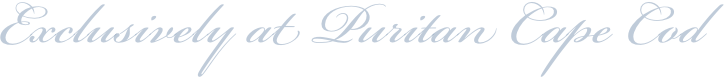
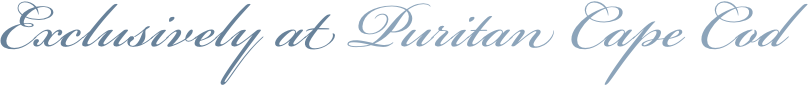
Header changes
MAKE THE LOGO BIGGER, the background darker, the tagline brighter and
link it to Puritan's website

diff --git a/Build/stores.html b/Build/stores.html
@@ -43,8 +43,10 @@
 	<div class="row">
 		<div class="large-12 columns">
 			<a href="index.html" class="logo-area">
-				<img src="assets/images/logo.png" class="logo"/><br/>
-				<img class="tagline" src="assets/images/at-puritan.png" alt="Exclusively at Puritan Cape Cod"/>
+				<img src="assets/images/logo3.png" class="logo"/>
+			</a>
+			<a href="http://puritancapecod.com" class="tagline">
+				<img src="assets/images/at-puritan.png" alt="Exclusively at Puritan Cape Cod"/>
 			</a>
 		  	<a href="cart.html" class="cart-link">
 		  		<img src="assets/images/bag-ico.png" alt="Shopping bag"/><span>Shopping bag</span>
@@ -72,9 +74,13 @@
 
 
 <div id="store-location">
+	<div class="row title">
+		<div class="large-12 columns">
+			<h3>Chatham Chino Company - Exclusively at Puritan Cape Cod</h3>
+		</div>
+	</div>
 	<div class="row">
 		<div class="large-12 columns">
-			<h3>Chatham Chinos - Exclusively at Puritan Cape Cod</h3>
 			<div class="row">
 				<div class="large-6 columns">
 					<p>

diff --git a/Build/assets/css/styles.css b/Build/assets/css/styles.css
@@ -3984,20 +3984,20 @@ footer p {
   font-family: "Clarendon W01", "Georgia", serif; }
 
 header {
-  background: url(../images/blue-fabric.jpg);
-  border-bottom: 2px solid #fff;
-  padding-bottom: .5rem; }
+  background: url(../images/blue-fabric2.jpg);
+  border-bottom: 2px solid #fff; }
   header a.logo-area {
     width: 300px;
     text-align: center;
     display: block;
     margin: 1rem auto 0; }
     header a.logo-area .logo {
-      margin-bottom: 2rem; }
-    header a.logo-area .tagline {
-      position: absolute;
-      bottom: -24px;
-      right: 0; }
+      margin-bottom: 3rem; }
+  header .tagline {
+    display: block;
+    position: absolute;
+    bottom: -22px;
+    right: 60px; }
   header a.cart-link {
     position: absolute;
     top: 0;

diff --git a/includes/_header.html b/includes/_header.html
@@ -2,8 +2,10 @@
 	<div class="row">
 		<div class="large-12 columns">
 			<a href="<!-- @path index.html -->" class="logo-area">
-				<img src="<!-- @path logo.png -->" class="logo"/><br/>
-				<img class="tagline" src="<!-- @path at-puritan.png -->" alt="Exclusively at Puritan Cape Cod"/>
+				<img src="<!-- @path logo3.png -->" class="logo"/>
+			</a>
+			<a href="http://puritancapecod.com" class="tagline">
+				<img src="<!-- @path at-puritan.png -->" alt="Exclusively at Puritan Cape Cod"/>
 			</a>
 		  	<a href="<!-- @path cart.html -->" class="cart-link">
 		  		<img src="<!-- @path bag-ico.png -->" alt="Shopping bag"/><span>Shopping bag</span>

diff --git a/Build/cart.html b/Build/cart.html
@@ -43,8 +43,10 @@
 	<div class="row">
 		<div class="large-12 columns">
 			<a href="index.html" class="logo-area">
-				<img src="assets/images/logo.png" class="logo"/><br/>
-				<img class="tagline" src="assets/images/at-puritan.png" alt="Exclusively at Puritan Cape Cod"/>
+				<img src="assets/images/logo3.png" class="logo"/>
+			</a>
+			<a href="http://puritancapecod.com" class="tagline">
+				<img src="assets/images/at-puritan.png" alt="Exclusively at Puritan Cape Cod"/>
 			</a>
 		  	<a href="cart.html" class="current cart-link">
 		  		<img src="assets/images/bag-ico.png" alt="Shopping bag"/><span>Shopping bag</span>

diff --git a/Build/index.html b/Build/index.html
@@ -44,8 +44,10 @@
 	<div class="row">
 		<div class="large-12 columns">
 			<a href="index.html" class="current logo-area">
-				<img src="assets/images/logo.png" class="logo"/><br/>
-				<img class="tagline" src="assets/images/at-puritan.png" alt="Exclusively at Puritan Cape Cod"/>
+				<img src="assets/images/logo3.png" class="logo"/>
+			</a>
+			<a href="http://puritancapecod.com" class="tagline">
+				<img src="assets/images/at-puritan.png" alt="Exclusively at Puritan Cape Cod"/>
 			</a>
 		  	<a href="cart.html" class="cart-link">
 		  		<img src="assets/images/bag-ico.png" alt="Shopping bag"/><span>Shopping bag</span>

diff --git a/Build/blog-detail.html b/Build/blog-detail.html
@@ -43,8 +43,10 @@
 	<div class="row">
 		<div class="large-12 columns">
 			<a href="index.html" class="logo-area">
-				<img src="assets/images/logo.png" class="logo"/><br/>
-				<img class="tagline" src="assets/images/at-puritan.png" alt="Exclusively at Puritan Cape Cod"/>
+				<img src="assets/images/logo3.png" class="logo"/>
+			</a>
+			<a href="http://puritancapecod.com" class="tagline">
+				<img src="assets/images/at-puritan.png" alt="Exclusively at Puritan Cape Cod"/>
 			</a>
 		  	<a href="cart.html" class="cart-link">
 		  		<img src="assets/images/bag-ico.png" alt="Shopping bag"/><span>Shopping bag</span>

diff --git a/Build/blog.html b/Build/blog.html
@@ -43,8 +43,10 @@
 	<div class="row">
 		<div class="large-12 columns">
 			<a href="index.html" class="logo-area">
-				<img src="assets/images/logo.png" class="logo"/><br/>
-				<img class="tagline" src="assets/images/at-puritan.png" alt="Exclusively at Puritan Cape Cod"/>
+				<img src="assets/images/logo3.png" class="logo"/>
+			</a>
+			<a href="http://puritancapecod.com" class="tagline">
+				<img src="assets/images/at-puritan.png" alt="Exclusively at Puritan Cape Cod"/>
 			</a>
 		  	<a href="cart.html" class="cart-link">
 		  		<img src="assets/images/bag-ico.png" alt="Shopping bag"/><span>Shopping bag</span>

diff --git a/Build/contact.html b/Build/contact.html
@@ -43,8 +43,10 @@
 	<div class="row">
 		<div class="large-12 columns">
 			<a href="index.html" class="logo-area">
-				<img src="assets/images/logo.png" class="logo"/><br/>
-				<img class="tagline" src="assets/images/at-puritan.png" alt="Exclusively at Puritan Cape Cod"/>
+				<img src="assets/images/logo3.png" class="logo"/>
+			</a>
+			<a href="http://puritancapecod.com" class="tagline">
+				<img src="assets/images/at-puritan.png" alt="Exclusively at Puritan Cape Cod"/>
 			</a>
 		  	<a href="cart.html" class="cart-link">
 		  		<img src="assets/images/bag-ico.png" alt="Shopping bag"/><span>Shopping bag</span>

diff --git a/Build/detail.html b/Build/detail.html
@@ -44,8 +44,10 @@
 	<div class="row">
 		<div class="large-12 columns">
 			<a href="index.html" class="logo-area">
-				<img src="assets/images/logo.png" class="logo"/><br/>
-				<img class="tagline" src="assets/images/at-puritan.png" alt="Exclusively at Puritan Cape Cod"/>
+				<img src="assets/images/logo3.png" class="logo"/>
+			</a>
+			<a href="http://puritancapecod.com" class="tagline">
+				<img src="assets/images/at-puritan.png" alt="Exclusively at Puritan Cape Cod"/>
 			</a>
 		  	<a href="cart.html" class="cart-link">
 		  		<img src="assets/images/bag-ico.png" alt="Shopping bag"/><span>Shopping bag</span>

diff --git a/Build/listing.html b/Build/listing.html
@@ -44,8 +44,10 @@
 	<div class="row">
 		<div class="large-12 columns">
 			<a href="index.html" class="logo-area">
-				<img src="assets/images/logo.png" class="logo"/><br/>
-				<img class="tagline" src="assets/images/at-puritan.png" alt="Exclusively at Puritan Cape Cod"/>
+				<img src="assets/images/logo3.png" class="logo"/>
+			</a>
+			<a href="http://puritancapecod.com" class="tagline">
+				<img src="assets/images/at-puritan.png" alt="Exclusively at Puritan Cape Cod"/>
 			</a>
 		  	<a href="cart.html" class="cart-link">
 		  		<img src="assets/images/bag-ico.png" alt="Shopping bag"/><span>Shopping bag</span>

diff --git a/Build/story.html b/Build/story.html
@@ -43,8 +43,10 @@
 	<div class="row">
 		<div class="large-12 columns">
 			<a href="index.html" class="logo-area">
-				<img src="assets/images/logo.png" class="logo"/><br/>
-				<img class="tagline" src="assets/images/at-puritan.png" alt="Exclusively at Puritan Cape Cod"/>
+				<img src="assets/images/logo3.png" class="logo"/>
+			</a>
+			<a href="http://puritancapecod.com" class="tagline">
+				<img src="assets/images/at-puritan.png" alt="Exclusively at Puritan Cape Cod"/>
 			</a>
 		  	<a href="cart.html" class="cart-link">
 		  		<img src="assets/images/bag-ico.png" alt="Shopping bag"/><span>Shopping bag</span>

diff --git a/assets/css/_header.scss b/assets/css/_header.scss
@@ -1,7 +1,6 @@
 header {
-	background: url(../images/blue-fabric.jpg);
+	background: url(../images/blue-fabric2.jpg);
 	border-bottom: 2px solid #fff;
-	padding-bottom: .5rem;
 
 	a.logo-area {
 		width: 300px;
@@ -9,12 +8,14 @@ header {
 		display: block;
 		margin: 1rem auto 0;
 
-		.logo {margin-bottom: 2rem;}
-		.tagline {
-			position: absolute;
-			bottom: -24px;
-			right: 0;
-		}
+		.logo {margin-bottom: 3rem;}
+	}
+
+	.tagline {
+		display: block;
+		position: absolute;
+		bottom: -22px;
+		right: 60px;
 	}
 
 	a.cart-link {
